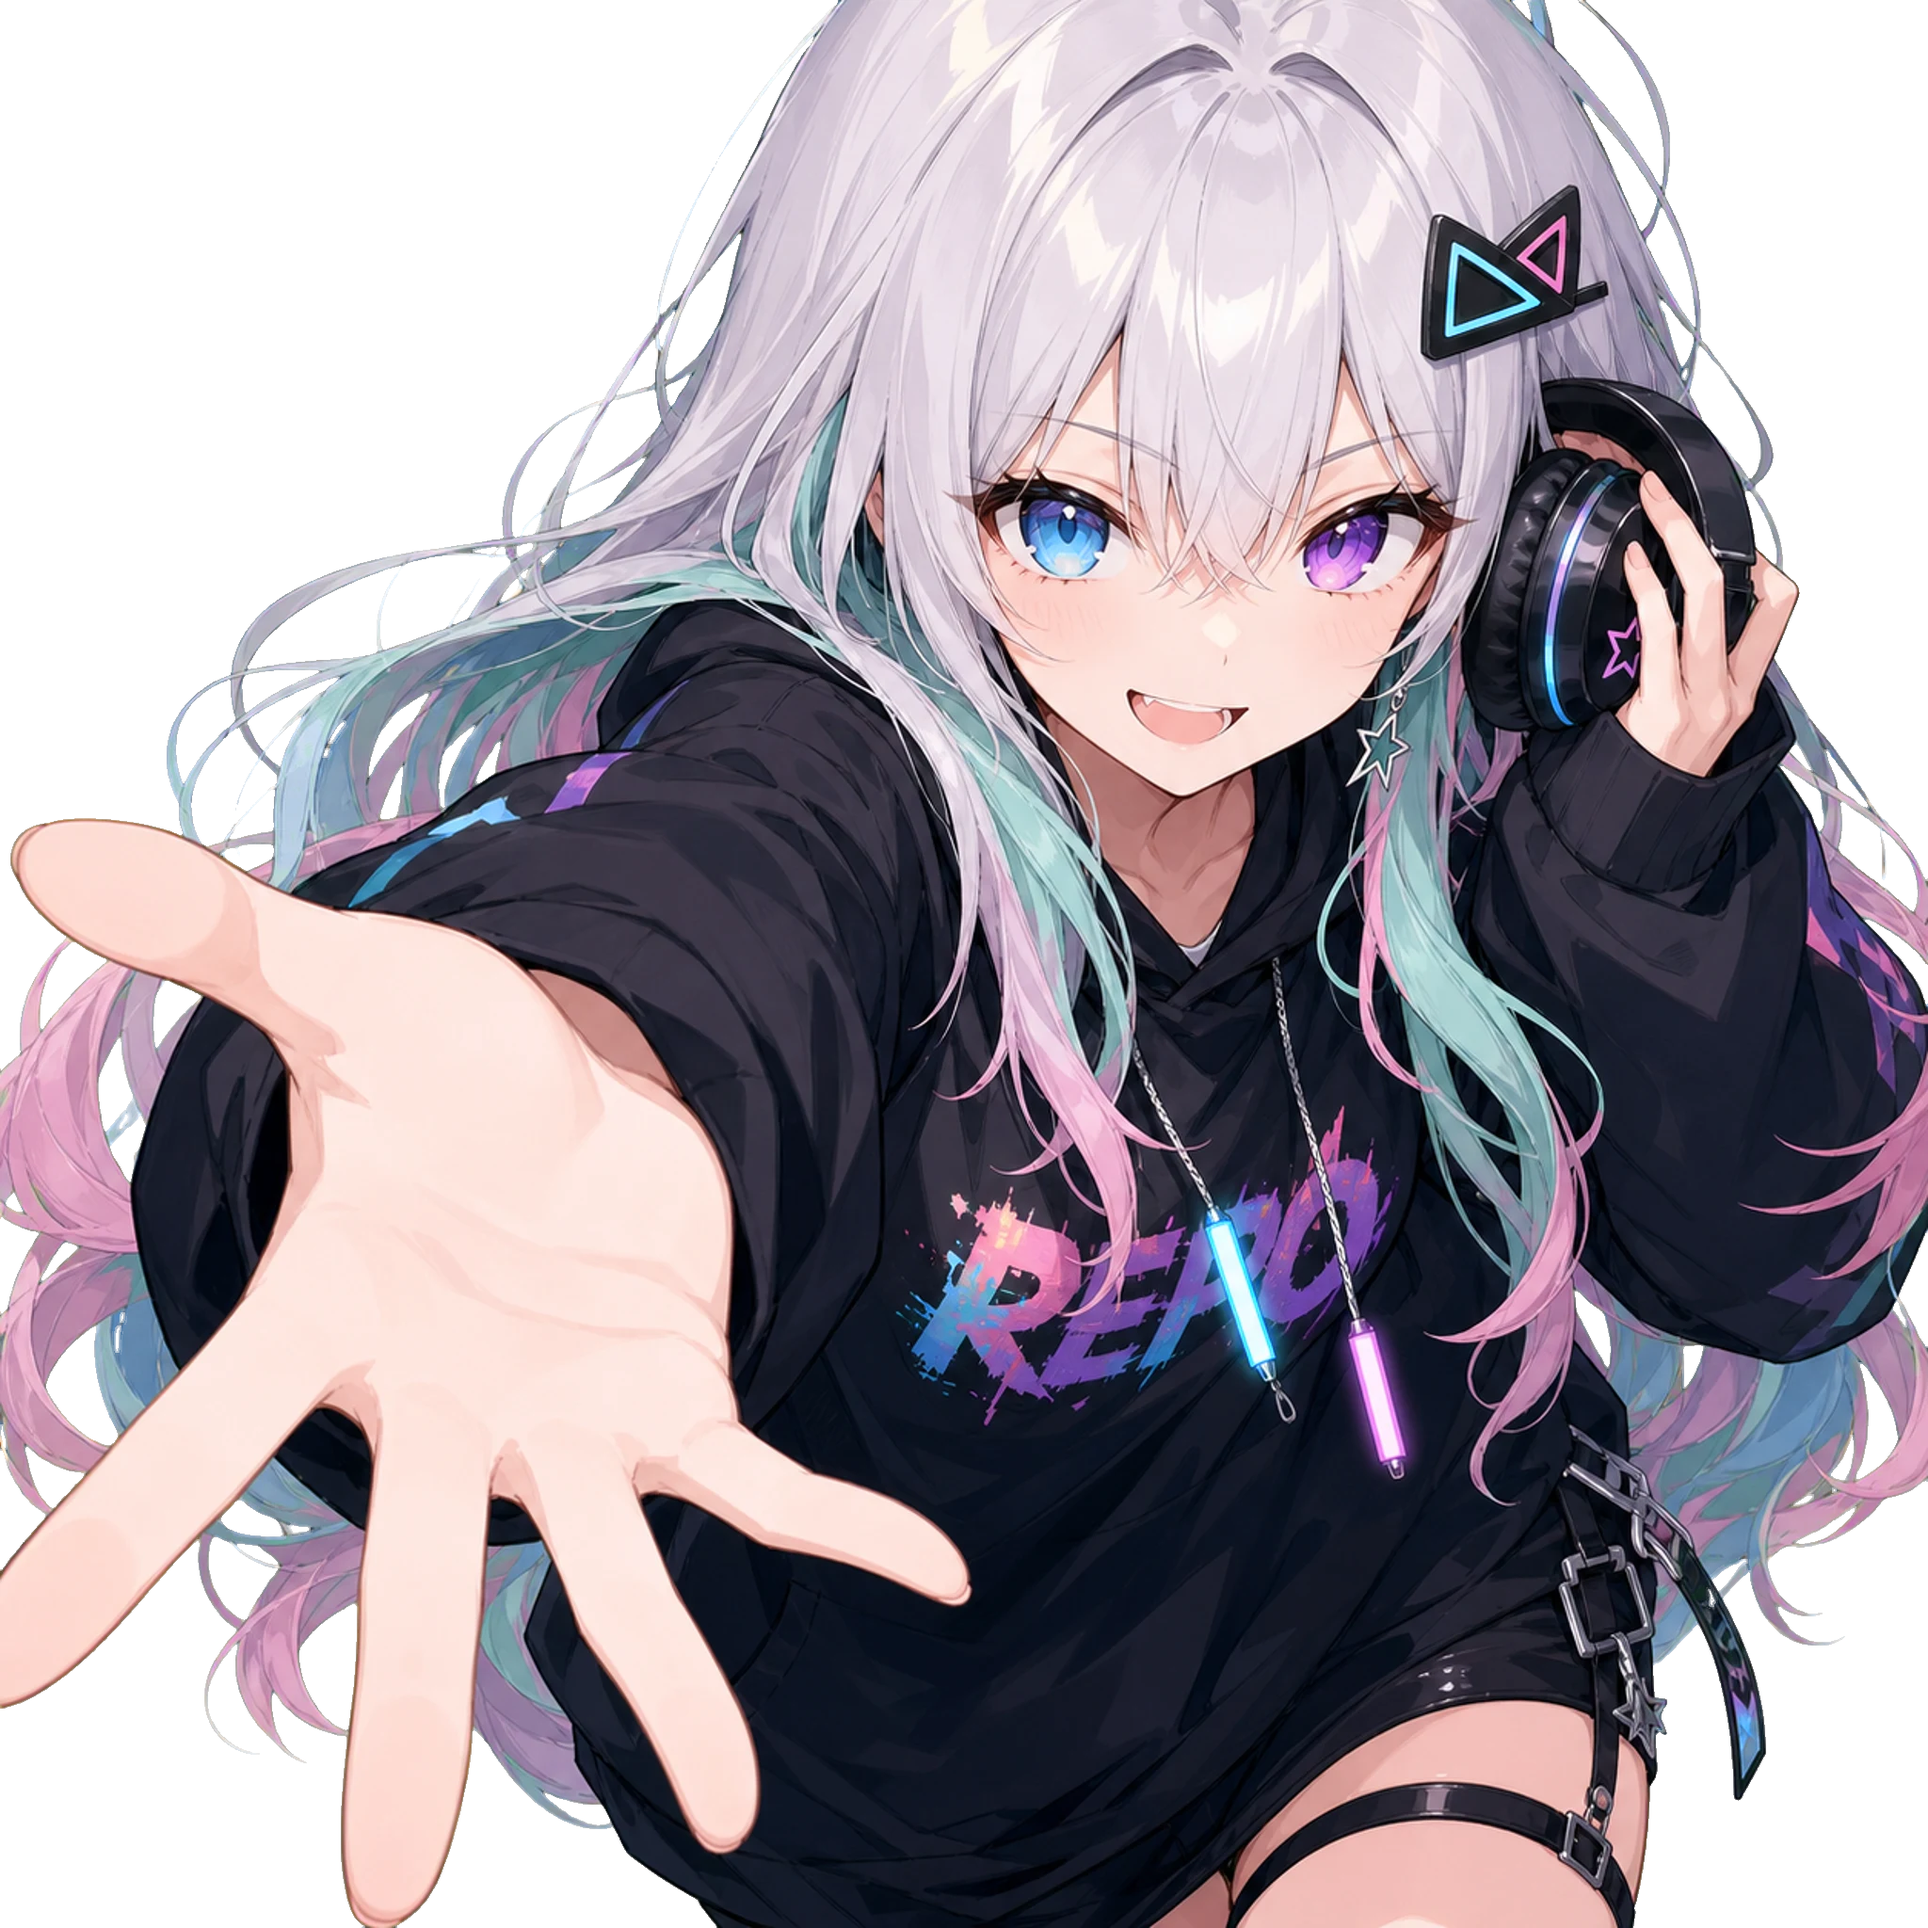
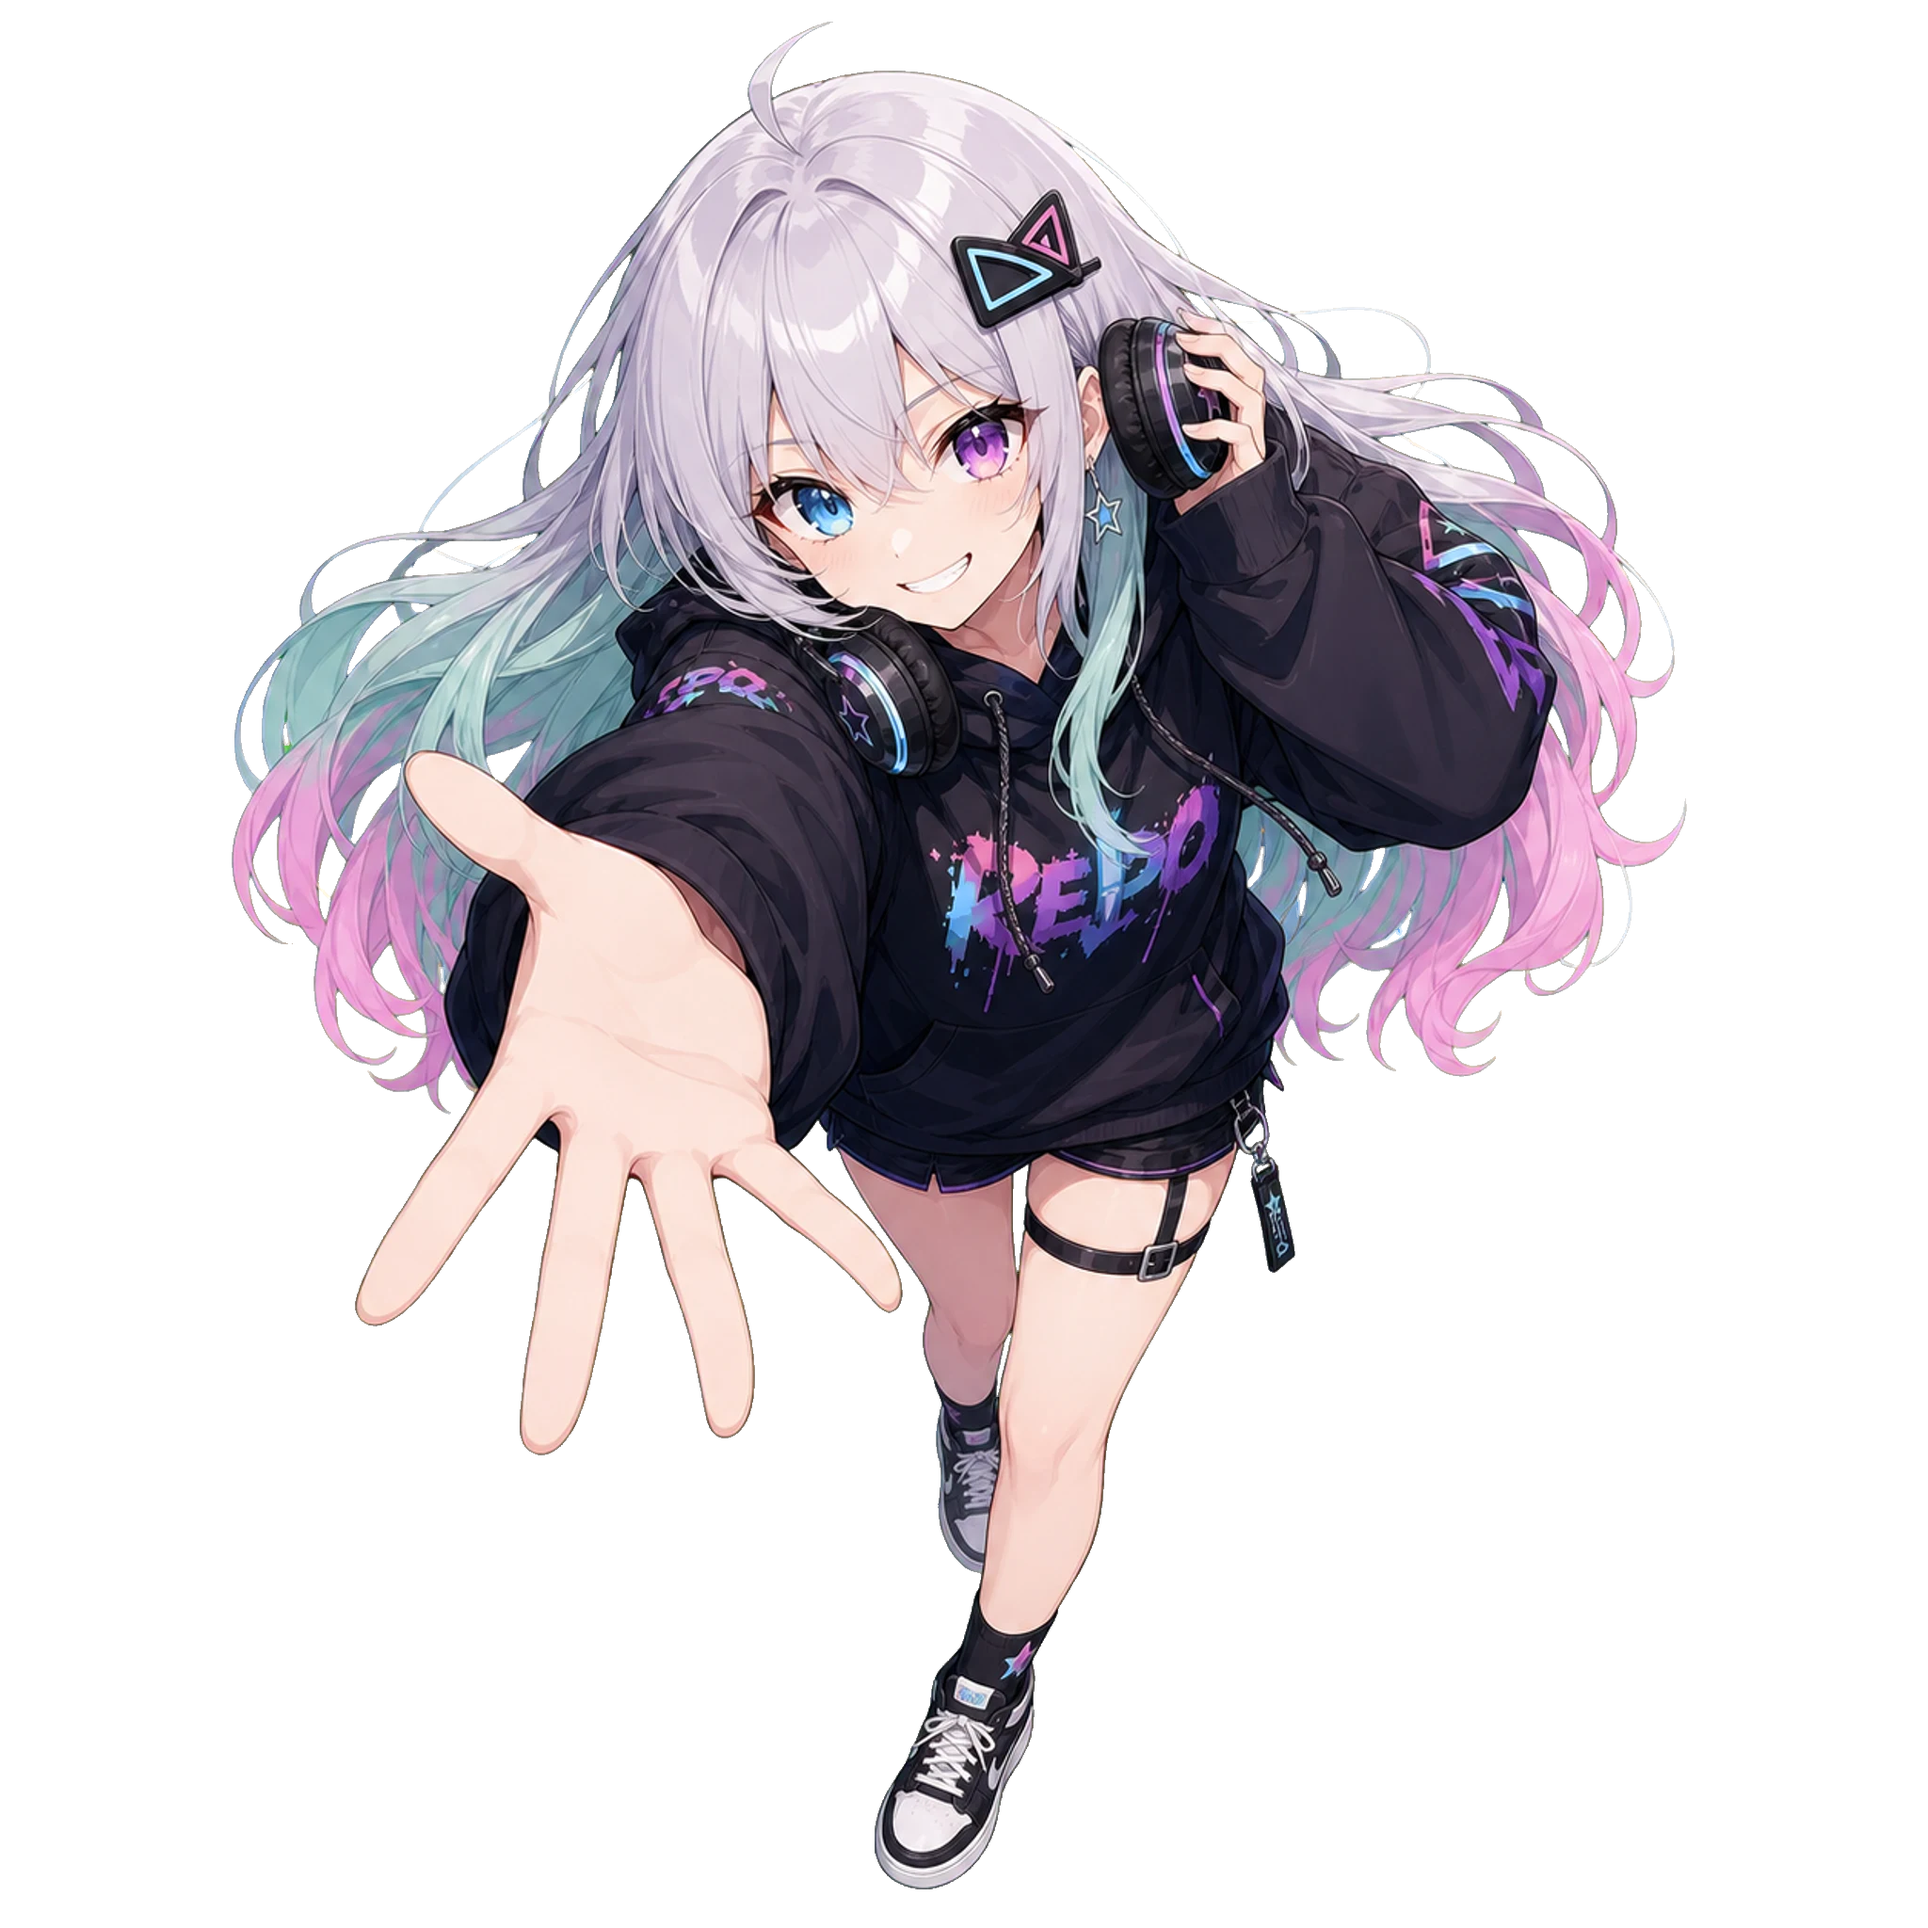
fix(templates,starters): complete-in-frame cutouts are the general asset class
Bleeding/cropped cutouts only read correctly against page elements that
receive the crop — they are design-bound assets, wrong as general/starter
assets. The character-cutout template and web-designer skill now encode
this: general cutouts must be fully in frame (all body parts, hair, props,
with margin on all sides); bleeding variants are only commissioned when the
page has H3/H4 layer elements acting as the crop boundary.

Regenerated A (low-angle leap, 2048x3072) and B (forward lunge, 2048x2048)
as complete-in-frame versions on green matte, keyed via chroma v2, and
redistributed to cgp hero-cutout, frutiger cutout and scrolly
cutout-wave/point. ord-cutout-001 v3 supersedes the bleeding v2 for general
use; derived archives backfilled.

landing-swiss-type: hero right side gains Fig. 01 (complete cutout B with
Swiss 1px-rule caption in both locales).

diff --git a/packages/skill/skills/repochan-web-designer/SKILL.md b/packages/skill/skills/repochan-web-designer/SKILL.md
@@ -35,6 +35,8 @@ description: >
 
 按 bake mask 创建生产订单：composite、uniform-matte cutout、canonical pattern 或 HTML-first。视觉母稿不是可直接抠图的生产资产；Painter 交付原图，页面装配阶段再执行确定性后处理。
 
+**Cutout 分两类**：通用 cutout 必须完整入画（全身/七分身完整、四边留白），可直接放置在任意区域；出血裁切 cutout 是**设计绑定资产**，仅当页面有 H3/H4 层元素充当接收裁切的视觉边界（卡片缘、section 分界线）时才下单，且不为其他站点复用——starter/通用资产库只收完整版。
+
 **资产不满足就重新生成，不凑合**：现有资产（旧订单结果、starter 源图、历史裁切）在清晰度、风格一致性、matte 规范或姿态构图上达不到当前标准时，新建订单重走 Painter 流程（带 foundation 引用与当前模板约束），不要拿旧图降格使用或手工修补。订单系统支持无限版本——重生是常态操作，旧版本自动成为历史。唯一例外是用户明确要求保留的既有资产。
 
 角色不应只出现在 Hero。适合 404、empty、loading、success、CTA cameo 等统一镜头的小型状态，可规划 3×3/4×4 uniform-matte 网格并为每个 cell 定义语义名称、publication、尺寸和 fallback。可产品化的网格合同使用 manifest `publications[]` + 独占的 `extract-grid` postprocess，由 `starter asset-apply` 原子提取、QA 和投影；原创站点也应复用同样的语义顺序与像素 QA，不手工伪造协议状态。

diff --git a/CHANGELOG.md b/CHANGELOG.md
@@ -6,6 +6,11 @@ This changelog records coordinated public package sets.
 
 ### 清晰度机制（genSize）与 web-designer 微调
 
+- Cutout 资产分类学：通用 cutout 必须完整入画（四边留白、肢体完整）；
+  出血裁切版是设计绑定资产（需 H3/H4 层边界配合），不得进 starter/通用库。
+  `official/character-cutout` 模板与 web-designer skill 已写入该教义；
+  ord-cutout-001 v3 重新交付完整入画版 A/B（2048×3072 / 2048×2048），
+  替换 4 个 starter 中的出血版；01 swiss-type hero 右侧新增 Fig. 01。
 - Order deliverables 新增 `genSize`（生成分辨率 ≥ 成品尺寸，后处理降采样）——
   清晰度契约落在订单层；painter 解析顺序：用户 > genSize > 模板 size >
   deliverable 宽高，生成尺寸永远 ≥ 成品尺寸。5 个 starter 的 33 处
